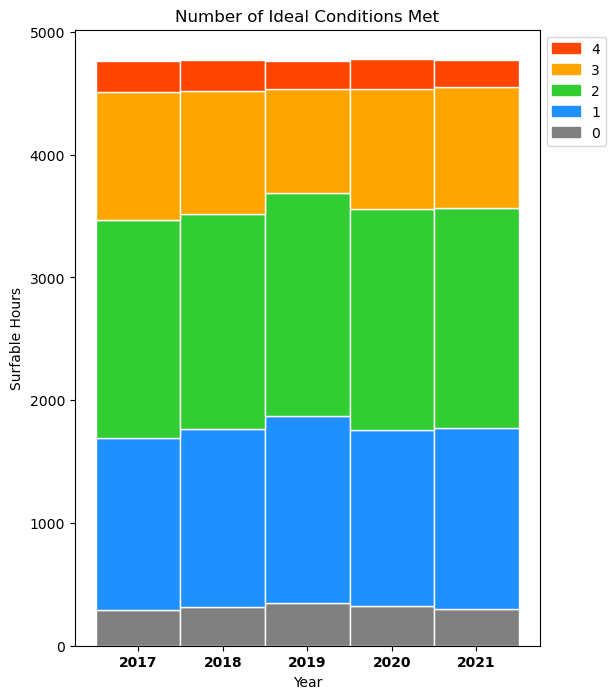
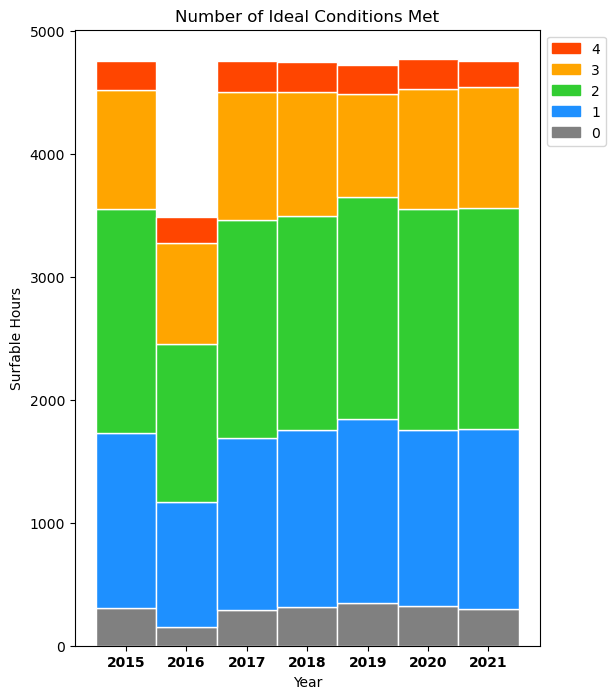
website update

diff --git a/src/visualizations/plots/scatter.html b/src/visualizations/plots/scatter.html
@@ -1,0 +1,52 @@
+<!DOCTYPE html>
+<html lang="en">
+  <head>
+    <meta charset="utf-8">
+    <title>Bokeh Plot</title>
+    <script type="text/javascript" src="https://cdn.bokeh.org/bokeh/release/bokeh-2.4.3.min.js"></script>
+    <script type="text/javascript">
+        Bokeh.set_log_level("info");
+    </script>
+  </head>
+  <body>
+    <div class="bk-root" id="baee2cb1-a184-4fa6-97b6-530e1eb1bce2" data-root-id="1003"></div>
+  
+    <script type="application/json" id="1149">
+      {"9e68a050-8116-45bf-8db0-3e1672fe6820":{"defs":[],"roots":{"references":[{"attributes":{"coordinates":null,"formatter":{"id":"1037"},"group":null,"major_label_policy":{"id":"1038"},"major_label_text_font_size":"15px","major_label_text_font_style":"bold","minor_tick_line_color":null,"ticker":{"id":"1015"}},"id":"1014","type":"LinearAxis"},{"attributes":{"tools":[{"id":"1022"}]},"id":"1023","type":"Toolbar"},{"attributes":{},"id":"1040","type":"Selection"},{"attributes":{"fill_alpha":{"value":0.1},"fill_color":{"value":"#FF4500"},"hatch_alpha":{"value":0.1},"hatch_color":{"value":"#FF4500"},"line_alpha":{"value":0.1},"line_color":{"value":"#FF4500"},"size":{"value":20},"x":{"field":"PSTdt"},"y":{"field":"count"}},"id":"1027","type":"Scatter"},{"attributes":{"axis":{"id":"1014"},"coordinates":null,"group":null,"ticker":null},"id":"1017","type":"Grid"},{"attributes":{"data":{"PSTdt":[2015,2016,2017,2018,2019,2020,2021],"count":{"__ndarray__":"6AAAAMwAAAD+AAAA9wAAAOwAAADwAAAA2AAAAA==","dtype":"int32","order":"little","shape":[7]},"index":[0,1,2,3,4,5,6]},"selected":{"id":"1040"},"selection_policy":{"id":"1039"}},"id":"1002","type":"ColumnDataSource"},{"attributes":{},"id":"1010","type":"LinearScale"},{"attributes":{},"id":"1037","type":"BasicTickFormatter"},{"attributes":{},"id":"1034","type":"BasicTickFormatter"},{"attributes":{"callback":null,"tooltips":"@count"},"id":"1022","type":"HoverTool"},{"attributes":{"source":{"id":"1002"}},"id":"1030","type":"CDSView"},{"attributes":{},"id":"1015","type":"BasicTicker"},{"attributes":{"fill_color":{"value":"#FF4500"},"hatch_color":{"value":"#FF4500"},"line_color":{"value":"#FF4500"},"size":{"value":20},"x":{"field":"PSTdt"},"y":{"field":"count"}},"id":"1026","type":"Scatter"},{"attributes":{"axis":{"id":"1018"},"coordinates":null,"dimension":1,"group":null,"ticker":null},"id":"1021","type":"Grid"},{"attributes":{},"id":"1035","type":"AllLabels"},{"attributes":{},"id":"1019","type":"BasicTicker"},{"attributes":{},"id":"1038","type":"AllLabels"},{"attributes":{"fill_alpha":{"value":0.2},"fill_color":{"value":"#FF4500"},"hatch_alpha":{"value":0.2},"hatch_color":{"value":"#FF4500"},"line_alpha":{"value":0.2},"line_color":{"value":"#FF4500"},"size":{"value":20},"x":{"field":"PSTdt"},"y":{"field":"count"}},"id":"1028","type":"Scatter"},{"attributes":{"end":300,"start":150},"id":"1031","type":"Range1d"},{"attributes":{"coordinates":null,"formatter":{"id":"1034"},"group":null,"major_label_policy":{"id":"1035"},"ticker":{"id":"1019"}},"id":"1018","type":"LinearAxis"},{"attributes":{"coordinates":null,"group":null,"text":"Total Daylight Hours with Score 4","text_font_size":"20px"},"id":"1004","type":"Title"},{"attributes":{},"id":"1012","type":"LinearScale"},{"attributes":{},"id":"1006","type":"DataRange1d"},{"attributes":{"coordinates":null,"data_source":{"id":"1002"},"glyph":{"id":"1026"},"group":null,"hover_glyph":null,"muted_glyph":{"id":"1028"},"nonselection_glyph":{"id":"1027"},"view":{"id":"1030"}},"id":"1029","type":"GlyphRenderer"},{"attributes":{"below":[{"id":"1014"}],"center":[{"id":"1017"},{"id":"1021"}],"height":400,"left":[{"id":"1018"}],"renderers":[{"id":"1029"}],"title":{"id":"1004"},"toolbar":{"id":"1023"},"width":400,"x_range":{"id":"1006"},"x_scale":{"id":"1010"},"y_range":{"id":"1031"},"y_scale":{"id":"1012"}},"id":"1003","subtype":"Figure","type":"Plot"},{"attributes":{},"id":"1039","type":"UnionRenderers"}],"root_ids":["1003"]},"title":"Bokeh Application","version":"2.4.3"}}
+    </script>
+    <script type="text/javascript">
+      (function() {
+        const fn = function() {
+          Bokeh.safely(function() {
+            (function(root) {
+              function embed_document(root) {
+              const docs_json = document.getElementById('1149').textContent;
+              const render_items = [{"docid":"9e68a050-8116-45bf-8db0-3e1672fe6820","root_ids":["1003"],"roots":{"1003":"baee2cb1-a184-4fa6-97b6-530e1eb1bce2"}}];
+              root.Bokeh.embed.embed_items(docs_json, render_items);
+              }
+              if (root.Bokeh !== undefined) {
+                embed_document(root);
+              } else {
+                let attempts = 0;
+                const timer = setInterval(function(root) {
+                  if (root.Bokeh !== undefined) {
+                    clearInterval(timer);
+                    embed_document(root);
+                  } else {
+                    attempts++;
+                    if (attempts > 100) {
+                      clearInterval(timer);
+                      console.log("Bokeh: ERROR: Unable to run BokehJS code because BokehJS library is missing");
+                    }
+                  }
+                }, 10, root)
+              }
+            })(window);
+          });
+        };
+        if (document.readyState != "loading") fn();
+        else document.addEventListener("DOMContentLoaded", fn);
+      })();
+    </script>
+  </body>
+</html>

diff --git a/website/scatter.html b/website/scatter.html
@@ -1,0 +1,52 @@
+<!DOCTYPE html>
+<html lang="en">
+  <head>
+    <meta charset="utf-8">
+    <title>Bokeh Plot</title>
+    <script type="text/javascript" src="https://cdn.bokeh.org/bokeh/release/bokeh-2.4.3.min.js"></script>
+    <script type="text/javascript">
+        Bokeh.set_log_level("info");
+    </script>
+  </head>
+  <body>
+    <div class="bk-root" id="baee2cb1-a184-4fa6-97b6-530e1eb1bce2" data-root-id="1003"></div>
+  
+    <script type="application/json" id="1149">
+      {"9e68a050-8116-45bf-8db0-3e1672fe6820":{"defs":[],"roots":{"references":[{"attributes":{"coordinates":null,"formatter":{"id":"1037"},"group":null,"major_label_policy":{"id":"1038"},"major_label_text_font_size":"15px","major_label_text_font_style":"bold","minor_tick_line_color":null,"ticker":{"id":"1015"}},"id":"1014","type":"LinearAxis"},{"attributes":{"tools":[{"id":"1022"}]},"id":"1023","type":"Toolbar"},{"attributes":{},"id":"1040","type":"Selection"},{"attributes":{"fill_alpha":{"value":0.1},"fill_color":{"value":"#FF4500"},"hatch_alpha":{"value":0.1},"hatch_color":{"value":"#FF4500"},"line_alpha":{"value":0.1},"line_color":{"value":"#FF4500"},"size":{"value":20},"x":{"field":"PSTdt"},"y":{"field":"count"}},"id":"1027","type":"Scatter"},{"attributes":{"axis":{"id":"1014"},"coordinates":null,"group":null,"ticker":null},"id":"1017","type":"Grid"},{"attributes":{"data":{"PSTdt":[2015,2016,2017,2018,2019,2020,2021],"count":{"__ndarray__":"6AAAAMwAAAD+AAAA9wAAAOwAAADwAAAA2AAAAA==","dtype":"int32","order":"little","shape":[7]},"index":[0,1,2,3,4,5,6]},"selected":{"id":"1040"},"selection_policy":{"id":"1039"}},"id":"1002","type":"ColumnDataSource"},{"attributes":{},"id":"1010","type":"LinearScale"},{"attributes":{},"id":"1037","type":"BasicTickFormatter"},{"attributes":{},"id":"1034","type":"BasicTickFormatter"},{"attributes":{"callback":null,"tooltips":"@count"},"id":"1022","type":"HoverTool"},{"attributes":{"source":{"id":"1002"}},"id":"1030","type":"CDSView"},{"attributes":{},"id":"1015","type":"BasicTicker"},{"attributes":{"fill_color":{"value":"#FF4500"},"hatch_color":{"value":"#FF4500"},"line_color":{"value":"#FF4500"},"size":{"value":20},"x":{"field":"PSTdt"},"y":{"field":"count"}},"id":"1026","type":"Scatter"},{"attributes":{"axis":{"id":"1018"},"coordinates":null,"dimension":1,"group":null,"ticker":null},"id":"1021","type":"Grid"},{"attributes":{},"id":"1035","type":"AllLabels"},{"attributes":{},"id":"1019","type":"BasicTicker"},{"attributes":{},"id":"1038","type":"AllLabels"},{"attributes":{"fill_alpha":{"value":0.2},"fill_color":{"value":"#FF4500"},"hatch_alpha":{"value":0.2},"hatch_color":{"value":"#FF4500"},"line_alpha":{"value":0.2},"line_color":{"value":"#FF4500"},"size":{"value":20},"x":{"field":"PSTdt"},"y":{"field":"count"}},"id":"1028","type":"Scatter"},{"attributes":{"end":300,"start":150},"id":"1031","type":"Range1d"},{"attributes":{"coordinates":null,"formatter":{"id":"1034"},"group":null,"major_label_policy":{"id":"1035"},"ticker":{"id":"1019"}},"id":"1018","type":"LinearAxis"},{"attributes":{"coordinates":null,"group":null,"text":"Total Daylight Hours with Score 4","text_font_size":"20px"},"id":"1004","type":"Title"},{"attributes":{},"id":"1012","type":"LinearScale"},{"attributes":{},"id":"1006","type":"DataRange1d"},{"attributes":{"coordinates":null,"data_source":{"id":"1002"},"glyph":{"id":"1026"},"group":null,"hover_glyph":null,"muted_glyph":{"id":"1028"},"nonselection_glyph":{"id":"1027"},"view":{"id":"1030"}},"id":"1029","type":"GlyphRenderer"},{"attributes":{"below":[{"id":"1014"}],"center":[{"id":"1017"},{"id":"1021"}],"height":400,"left":[{"id":"1018"}],"renderers":[{"id":"1029"}],"title":{"id":"1004"},"toolbar":{"id":"1023"},"width":400,"x_range":{"id":"1006"},"x_scale":{"id":"1010"},"y_range":{"id":"1031"},"y_scale":{"id":"1012"}},"id":"1003","subtype":"Figure","type":"Plot"},{"attributes":{},"id":"1039","type":"UnionRenderers"}],"root_ids":["1003"]},"title":"Bokeh Application","version":"2.4.3"}}
+    </script>
+    <script type="text/javascript">
+      (function() {
+        const fn = function() {
+          Bokeh.safely(function() {
+            (function(root) {
+              function embed_document(root) {
+              const docs_json = document.getElementById('1149').textContent;
+              const render_items = [{"docid":"9e68a050-8116-45bf-8db0-3e1672fe6820","root_ids":["1003"],"roots":{"1003":"baee2cb1-a184-4fa6-97b6-530e1eb1bce2"}}];
+              root.Bokeh.embed.embed_items(docs_json, render_items);
+              }
+              if (root.Bokeh !== undefined) {
+                embed_document(root);
+              } else {
+                let attempts = 0;
+                const timer = setInterval(function(root) {
+                  if (root.Bokeh !== undefined) {
+                    clearInterval(timer);
+                    embed_document(root);
+                  } else {
+                    attempts++;
+                    if (attempts > 100) {
+                      clearInterval(timer);
+                      console.log("Bokeh: ERROR: Unable to run BokehJS code because BokehJS library is missing");
+                    }
+                  }
+                }, 10, root)
+              }
+            })(window);
+          });
+        };
+        if (document.readyState != "loading") fn();
+        else document.addEventListener("DOMContentLoaded", fn);
+      })();
+    </script>
+  </body>
+</html>

diff --git a/website/about.html b/website/about.html
@@ -9,13 +9,52 @@
 <style>
     /* Add styles for the page */
     body {
-      font-family: Arial, sans-serif;
+      font-family: 'Helvetica Neue', sans-serif;
       margin: 0;
       padding: 0;
-      font-weight: bold;
+      font-size: 20px
+      /*font-weight: bold;*/
+    }
+    .container {
+        display: flex;
+        justify-content: center;
+        align-items: center;
+    }
+    .content {
+        width: 50%;
+        text-align: left;
+    }
+    .stacked-bar {
+      float: center;
+      margin-top: 5px;
+      margin-bottom: 20px;
+      height: 500px;
+      margin-right: -10px;
+    }
+    .scatter {
+      float: center;
+      margin-top: 5px;
+      margin-bottom: -80px;
+      height: 500px;
     }
 </style>
-<body>
-    This page is in progress
+<body style="font-family: 'Helvetica Neue', sans-serif;">
+    <div class="container">
+      <div class="content">
+            <h1>About</h1>
+            <p>It’s part of surfing’s nature to reminisce about the times when the swell was pumping and the surf was insane, and hope that those conditions of lore return. This project was inspired by a common sentiment in Isla Vista that "the waves used to be better" which was also echoed by my surf instructor coworkers. I wanted to see if there is evidence to support that feeling, or if this perception exists no matter the wave quality.</p>
+            <p>When determining ideal conditions, I considered the surf breaks Devereaux and Campus Point, although Sands and other spots in Santa Barbara were likely firing any time an hour gained a score of four.</p>
+            <p>At first glance, it seems that there is no real trend in wave quality between 2015 and 2021, especially without the three months of data in 2016.</p>
+            <div>
+                <iframe class="stacked-bar" width=100% height=100% frameborder="0" src="stacked_bar.html"></iframe>
+            </div>
+            <p>However, only a few awesome sessions make an era of surfing memorable. In fact, if we focus on the hours with the best conditions, a small trend emerges.</p>
+            <div>
+                <iframe class="scatter" width="100%" height="100%" frameborder="0" src="scatter.html"></iframe>
+            </div>
+            <p>There were 38 less epic hours in 2021 compared to 2017. Assuming 12 hours of daylight, that's three entire day's worth of pumping surf that just didn't occur in 2021. This may not seem like much, but it only takes one great session to completely change your perception of current or past surf conditions, and the liklihood of having one of these sessions in 2017 was higher than in 2021.</p>
+            <p>I'm planning on doing some proper statistics to confirm whether or not a trend in wave quality really exists, but I'm still in the process of verifying ideal conditions with local surfers. Thus, an official conclusion is yet to be determined.</p>
+        </div>
+    </div>
 </body>
 </html>

diff --git a/website/graph_explainer.html b/website/graph_explainer.html
@@ -12,6 +12,13 @@
         width: 50%;
         text-align: left;
       }
+      body {
+      font-family: 'Helvetica Neue', sans-serif;
+      margin: 0;
+      padding: 0;
+      font-size: 20px
+      /*font-weight: bold;*/
+      }
       .image {
         float: center;
         margin-top: 0px;
@@ -56,12 +63,12 @@
         </ul>
         <p>Hours without sufficient data are colored yellow.</p>
         <div>
-          <img class="image" src="sufline-colors.png" width=30% height=30% alt="Surfline Colors">
+          <img class="image" src="sufline-colors.png" width=20% height=20% alt="Surfline Colors">
         </div>
         <h2>Yearly Stacked Bar Graph</h2>
         <p>Each bar represents the total daylight hours in a year separated by score. Eventually, clicking on a bar will lead you to that year’s corresponding hover graph, but for now you’ll just see the total hours in each color block. </p>
         <div>
-            <iframe class="stacked-bar" width=100% height=100% frameborder="0" src="version_2.html"></iframe>
+            <iframe class="stacked-bar" width=100% height=100% frameborder="0" src="stacked_bar.html"></iframe>
         </div>
         <h2>Monthly Hover Graph</h2>
         <p>Each brick you see represents a single daylight hour, and hovering over a brick will show that hour’s exact wind, swell, tide, and period.</p>

diff --git a/index.html b/index.html
@@ -4,7 +4,7 @@
     <style>
       /* Add styles for the page */
       body {
-        font-family: Arial, sans-serif;
+        font-family: 'Helvetica Neue', sans-serif;
         margin: 0;
         padding: 0;
       }
@@ -67,7 +67,7 @@
   <body>
     <div class="container">
       <h1>Isla Vista Wave Quality</h1>
-      <iframe class="stacked-bar" width=50% height=500px frameborder="0" src="website/version_2.html"></iframe>
+      <iframe class="stacked-bar" width=50% height=500px frameborder="0" src="website/stacked_bar.html"></iframe>
       <div class="description">
         <p>Analyzing swell, tide, and wind data in Isla Vista from 2015 to 2021 to see if there is a noticeable trend in wave quality. </p>
         <a href="website/graph_explainer.html" class="custom-link" style="display: block; margin-bottom: -10px;">What am I Looking At?</a> <br>

diff --git a/website/index.html b/website/index.html
@@ -62,7 +62,7 @@
   <body>
     <div class="container">
       <h1>Isla Vista Wave Quality</h1>
-      <iframe class="stacked-bar" width=50% height=500px frameborder="0" src="version_2.html"></iframe>
+      <iframe class="stacked-bar" width=50% height=500px frameborder="0" src="stacked_bar.html"></iframe>
       <div class="description">
         <p>Analyzing swell, tide, and wind data in Isla Vista from 2017 to 2021 to see if there is a noticeable trend in wave quality. </p>
         <p>All of the plotting is done in Bokeh. I'm still working on the final visualization&mdash;I need to learn how to use CustomJS callbacks&mdash;but the idea is to click on a bar in the simple stacked bar chart to see the corresponding year's hover graph.</p>
